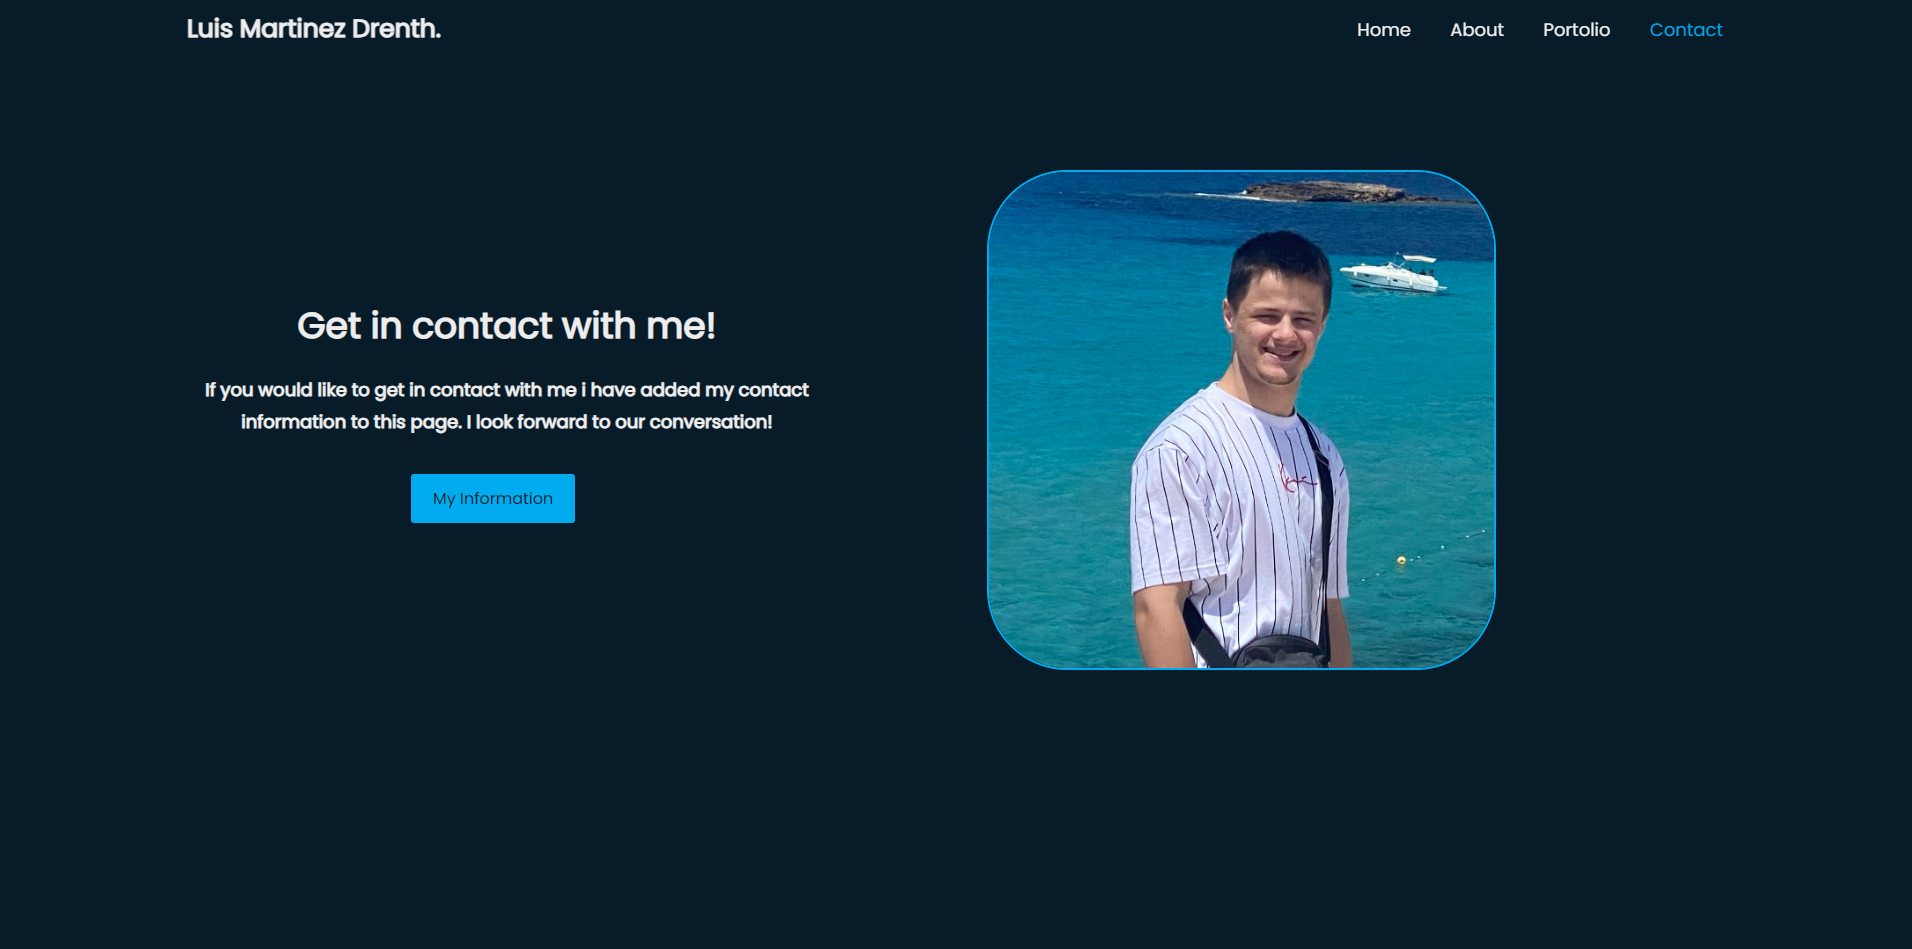
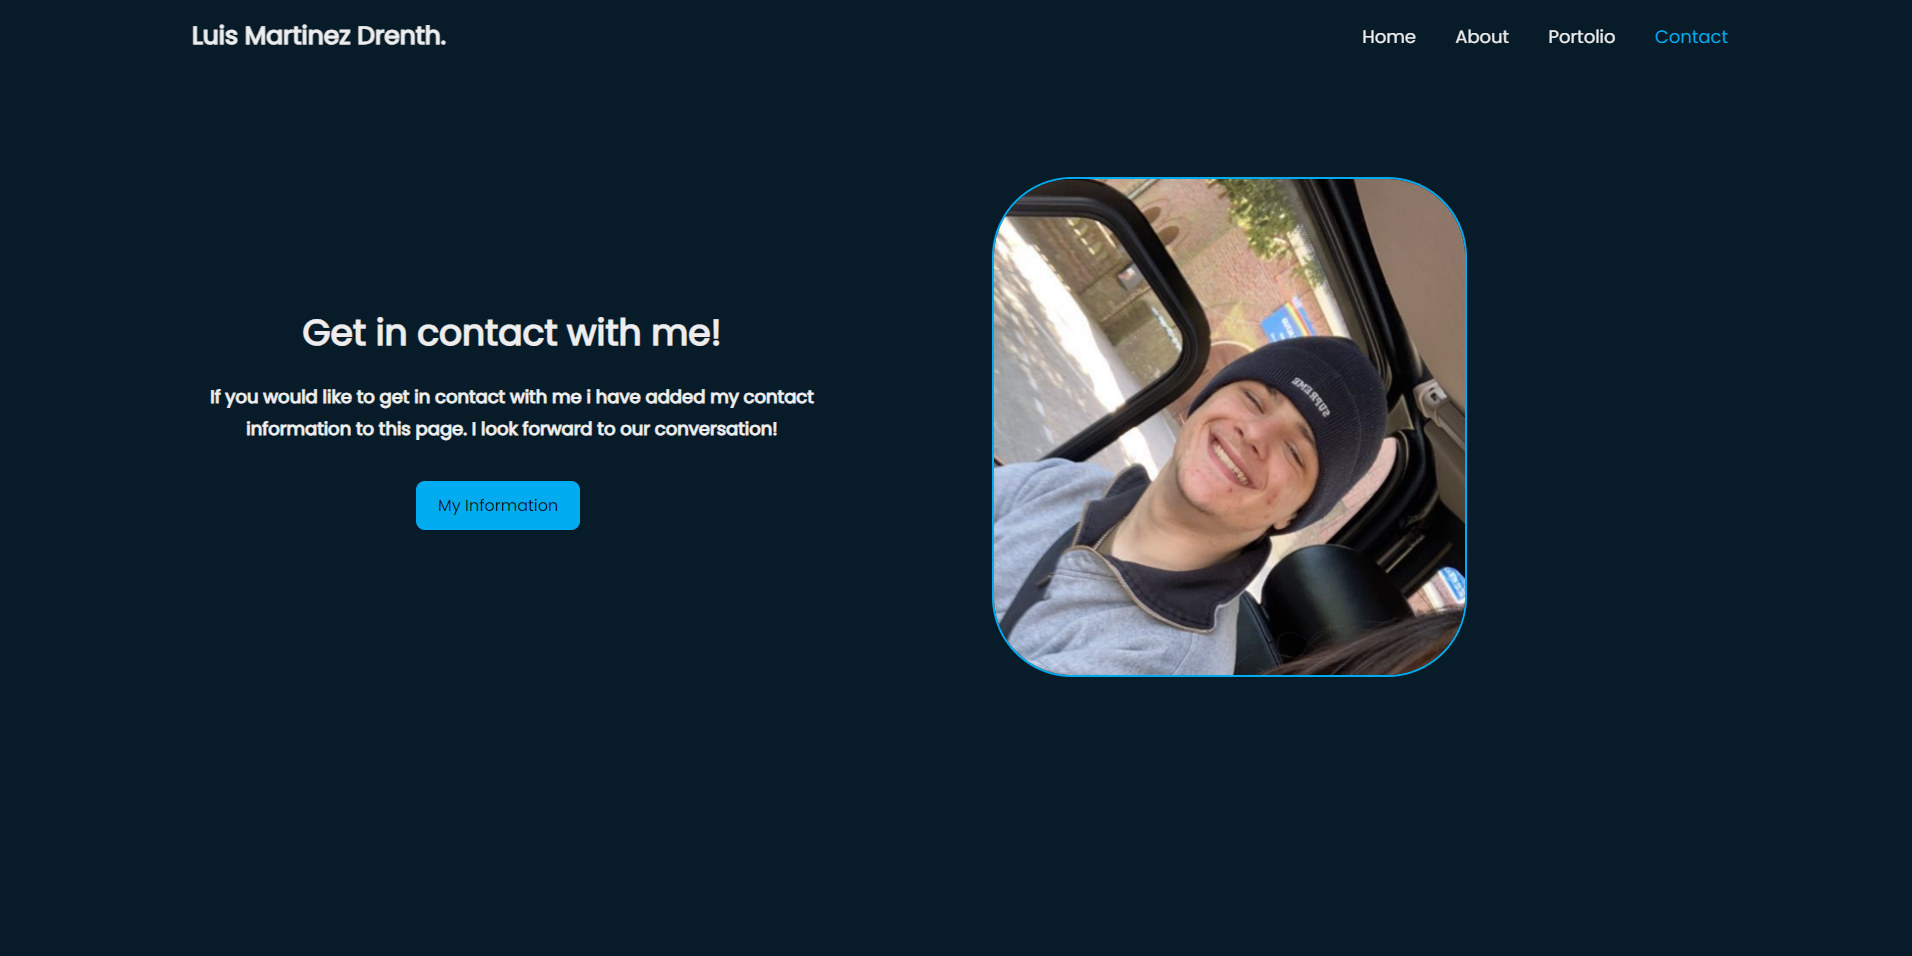
did a lot.

diff --git a/style.css b/style.css
@@ -227,6 +227,7 @@ main {
 }
 /*Regels voor main gedeelte van about me*/
 .abtme {
+    height: 80vh;
     width: 60vw;
     position: relative;
     top: 10vh;
@@ -246,6 +247,11 @@ main {
     background-color: #00abf0;
     border-radius: 20px;
 }
+
+.abtme p {
+    margin-left: 20px;
+}
+
 /*volgende 3 stukjes zorgen er voor dat de tekst rondom de foto kan lopen (maar niet h2)*/
 .about-main-content {
     display: flex;
@@ -369,9 +375,12 @@ dd p {
 }
 
 .popup:target {
+    background-color: rgba(46, 46, 46, 0.411);
     display: block;
     opacity: 1;
-    height: 90vh;
+    height: 100vh;
+    width: 100vw;
+    left: 0;
 }
 
 .overlay {
@@ -380,8 +389,9 @@ dd p {
     left: 0;
     width: 100%;
     height: 100%;
-    background-color: hsl(205, 67%, 10%);
+    background-color: transparent;
     z-index: -1;
+    
 }
 
 .popupwrapper {
@@ -389,13 +399,15 @@ dd p {
     top: 50%;
     left: 50%;
     transform: translate(-50%, -50%);
-    height: 40vh;
-    width: 80vw;
-    background-color: #00abf0;
+    height: 35vh;
+    width: 40vw;
+    background-color: #081b29;
     z-index: 2;
     text-align: center;
     padding: 20px;
     border-radius: 20px;
+    border: 0.2rem solid #00abf0;
+    box-shadow: black 16px 16px 16px;
 }
 
 .popupwrapper h1 {
@@ -406,6 +418,13 @@ dd p {
 .popupwrapper p {
     margin-top: 2rem;
 }
+
+
+.link2 {
+    text-decoration: underline;
+    color: #ededed;
+}
+
 
 .cv-text {
     position: absolute;
@@ -434,13 +453,14 @@ dd p {
 
 .btn-style {
     border: 2px solid #00abf0;
-    border-radius: 3px;
+    border-radius: 9px;
     background-color: #00abf0;
     color: #081b29;
     padding: 10px 20px;
     font-size: 16px;
     transition: background-color 0.3s, color 0.3s;
     cursor: pointer;
+
 }
 
 #infobtn {
@@ -454,8 +474,8 @@ dd p {
 }
 .close-btn {
     position: absolute;
-    top: 20px;
-    right: 20px;
+    top: 2%;
+    right: 2%;
     font-size: 24px;
     color: #ededed;
     text-decoration: none;

diff --git a/contact.html b/contact.html
@@ -34,8 +34,8 @@
                 <h1>My contact info:</h1>
                 <p>Name: Luis Martinez Drenth</p>
                 <p>Phone number: +31611537014</p>
-                <p><a class="link" href="mailto:luismd1502@gmail.com">Email: luismd1502@gmail.com</a></p>
-                <a href="https://www.linkedin.com/in/luis-martinez-drenth-8b66b9132/" class="link" target="_blank"><p>Linked in</p></a>
+                <p><a class="link2" href="mailto:luismd1502@gmail.com">Email: luismd1502@gmail.com</a></p>
+                <a href="https://www.linkedin.com/in/luis-martinez-drenth-8b66b9132/" class="link2" target="_blank"><p>Linked in</p></a>
                 <a href="#" class="close-btn">×</a>
             </div>
         </div>
@@ -43,7 +43,7 @@
             <h1>Get in contact with me!</h1>
             <p>If you would like to get in contact with me i have added my contact information to this page. I look forward to our conversation!</p>
             <div class="imgdiv">
-                <img src="/images/Headshot.jpg" alt="A picture of me">
+                <img src="/images/photo3.PNG" alt="A picture of me">
             </div>
             <a href="#popup" class="link"><button class="btn-style" id="infobtn">My Information</button></a>
         </div>

diff --git a/portfolio.html b/portfolio.html
@@ -38,7 +38,6 @@
                 </dt>
                 <dd class="desc"><img src="images/home-page.png" id="pim1"><img src="images/abt-me.png" id="pim1"><img src="images/contact.png" id="pim1"><p>My very first project ever has actually been this very website. I came into this project knwoing nothing about HTML, CSS or Javascript. While i admit to not having used any Javascript in this project, it has been a lot of fun working on this, and i have learnt a lot from it.</p></dd>
             </dl>
-            
         </div>
     </main>
 </body>
